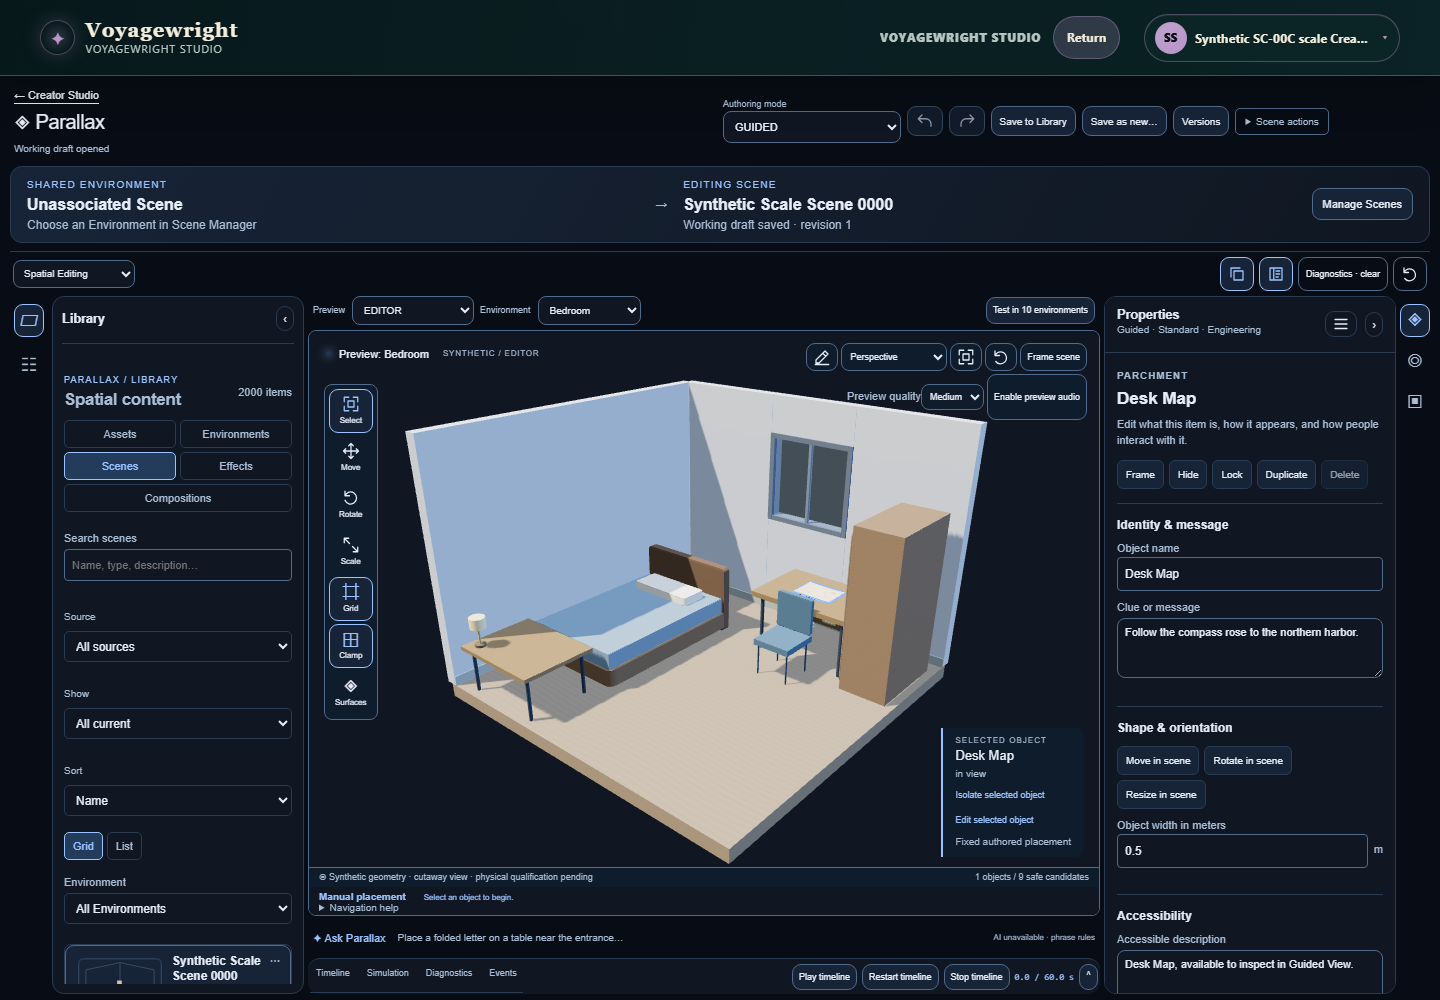
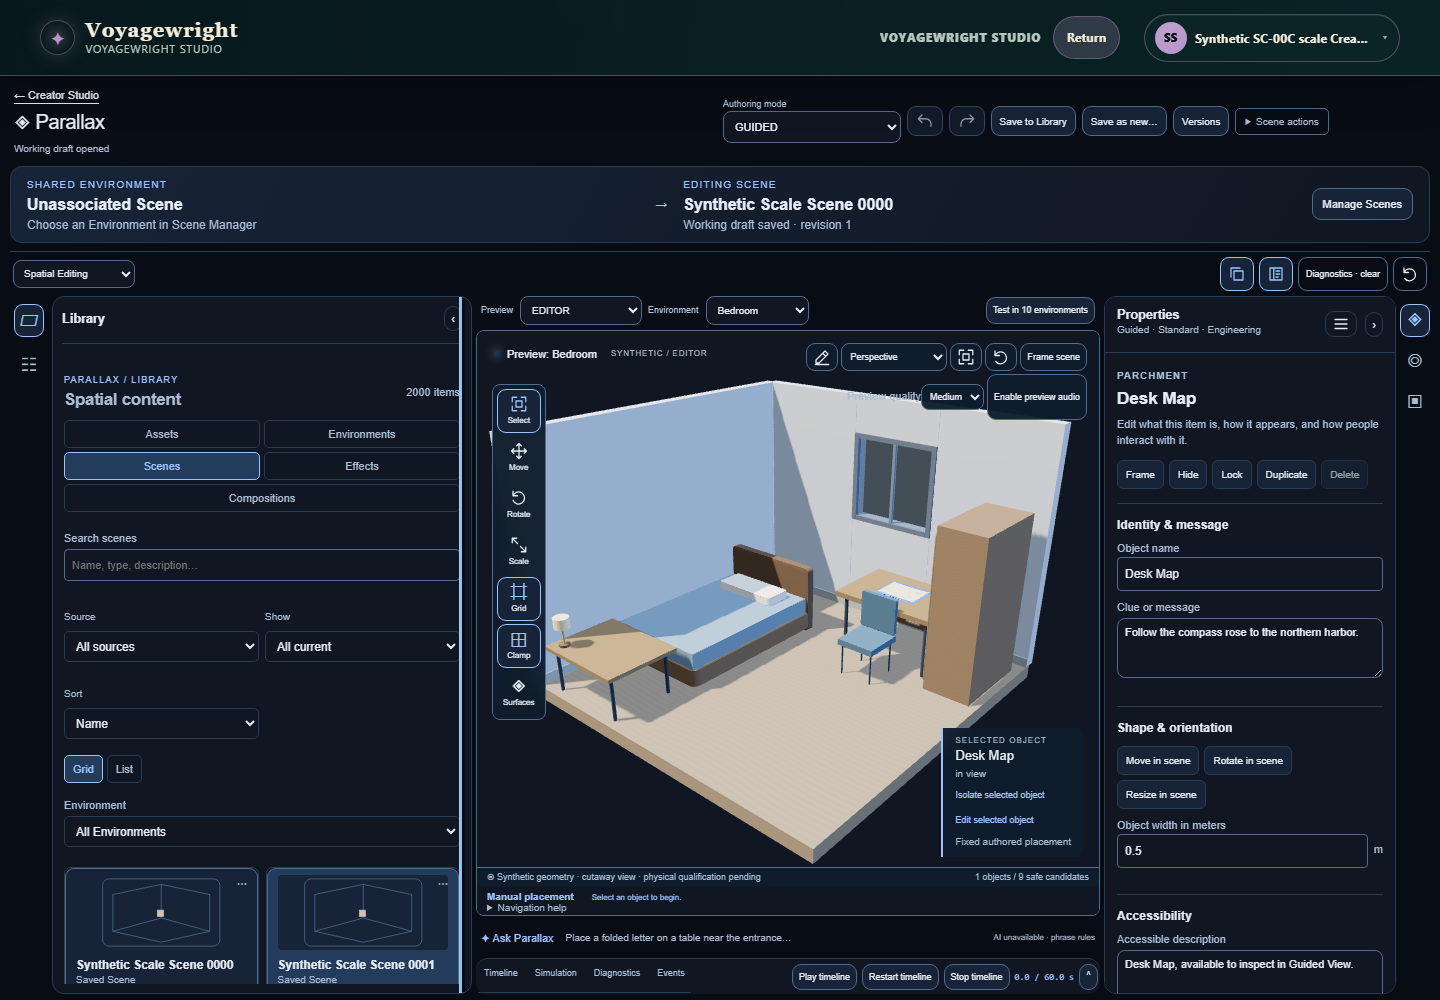
Verify keyboard and panel density at two thousand Scenes

Changed region(s): [[0.0312, 0.279, 0.75, 1.0], [0.5, 0.31, 0.5312, 0.341]]

diff --git a/tests/e2e/parallax-sc00c-scale-browser.spec.ts b/tests/e2e/parallax-sc00c-scale-browser.spec.ts
@@ -110,6 +110,18 @@ test("a large saved-Scene catalog remains searchable and paged in the actual Stu
   const evidence = total === 1000 ? "artifacts/sc00c/scale-browser" : `artifacts/sc00c/scale-browser-${total}`;
   const imageLabel = total === 1000 ? "thousand-scenes" : `${total}-scenes`;
   await mkdir(evidence, { recursive: true });
+  const firstCard = library.getByRole("button", { name: "Inspect Synthetic Scale Scene 0000" });
+  await firstCard.focus();
+  await page.keyboard.press("Enter");
+  await expect(library.getByRole("complementary", { name: "Synthetic Scale Scene 0000 details" })).toBeVisible();
+  await library.getByRole("button", { name: "Close item details" }).click();
+  const panelResize = page.getByRole("separator", { name: "Resize library panel" });
+  for (let index = 0; index < 20; index++) await panelResize.press("ArrowLeft");
+  await expect(panelResize).toHaveAttribute("aria-valuenow", "210");
+  await page.screenshot({ path: `${evidence}/${imageLabel}-narrow-panel.png`, fullPage: true });
+  for (let index = 0; index < 20; index++) await panelResize.press("ArrowRight");
+  await expect(panelResize).toHaveAttribute("aria-valuenow", "420");
+  await page.screenshot({ path: `${evidence}/${imageLabel}-wide-panel.png`, fullPage: true });
   await library.getByRole("heading", { name: "Spatial content" }).scrollIntoViewIfNeeded();
   await page.screenshot({ path: `${evidence}/${imageLabel}-desktop.png`, fullPage: true });
   const desktopDomCards = await library.getByRole("article").count();
@@ -127,6 +139,7 @@ test("a large saved-Scene catalog remains searchable and paged in the actual Stu
     firstPage: { bytes: firstPageBytes, count: 48 },
     farSearch: { ms: farSearchMs, matches: 1 },
     afterShowMore: { domCards: desktopDomCards },
+    keyboardAndPanel: { inspectedFirstCard: true, narrowWidth: 210, wideWidth: 420 },
     phone: { viewportWidth: 390, documentWidth: phoneDocumentWidth },
   };
   await writeFile(`${evidence}/browser-scale.json`, JSON.stringify(report, null, 2) + "\n");

diff --git a/Development_Docs/Projects/Project_Parallax/evidence/sc-00c/20261015-browser-scale/README.md b/Development_Docs/Projects/Project_Parallax/evidence/sc-00c/20261015-browser-scale/README.md
@@ -23,15 +23,16 @@ The retained [measurement](browser-scale.json) records one local run:
 
 The [desktop](thousand-scenes-desktop.png) and [phone](thousand-scenes-phone.png) screenshots show the actual authenticated Library with the 1,000-item count, bounded cards, source controls and responsive layout. The journey passed **1/1** on Chromium after a task-owned Turbopack production build; full TypeScript and focused ESLint passed. These are single local timings, not network-wide latency guarantees or final-source owner acceptance.
 
-A second fresh isolated database contained **2,000** minimal saved Scenes and 10,000 immutable releases. The [production Chromium journey](two-thousand-browser-pass.log.txt) passed **1/1** using the same committed source and production build. The [desktop](two-thousand-scenes-desktop.png) and [phone](two-thousand-scenes-phone.png) screenshots show the rendered Library. Its [measurement](two-thousand-browser-scale.json) records:
+A later fresh isolated database contained **2,000** minimal saved Scenes and 10,000 immutable releases. The [production Chromium journey](two-thousand-browser-pass.log.txt) passed **1/1** using the same committed source and production build. The [desktop](two-thousand-scenes-desktop.png), [phone](two-thousand-scenes-phone.png), [210 px panel](two-thousand-scenes-narrow-panel.png), and [420 px panel](two-thousand-scenes-wide-panel.png) screenshots show the rendered Library. Its [measurement](two-thousand-browser-scale.json) records:
 
 | Observation                                        |                                                     Result |
 | -------------------------------------------------- | ---------------------------------------------------------: |
 | Full Studio bootstrap response                     | 23,990,373 bytes, measured by a repeated authenticated GET |
-| Navigation to visible Parallax heading             |                                                   2,540 ms |
+| Navigation to visible Parallax heading             |                                                   3,149 ms |
 | First paged Scene response                         |                                     26,345 bytes; 48 cards |
-| Search for Scene 1999 through the rendered Library |                                          964 ms; one match |
+| Search for Scene 1999 through the rendered Library |                                          974 ms; one match |
 | After Show more                                    |                             96 cards in the DOM, not 2,000 |
+| Keyboard inspection and panel resize               |                    Enter opened details; 210–420 px limits |
 | Phone document width at 390 px                     |                                                     390 px |
 
 The first [2,000-item attempt](two-thousand-body-eviction-attempt.log.txt) reached the visible Studio heading, then its byte measurement failed because Chromium evicted the 24 MB response body from the DevTools inspection cache. The passing run measured bytes with a separate authenticated API read after recording the heading-visible time; its byte count is not the original navigation response body. Both attempts used fresh databases, and the first failure is an instrumentation limit rather than a product assertion failure.
